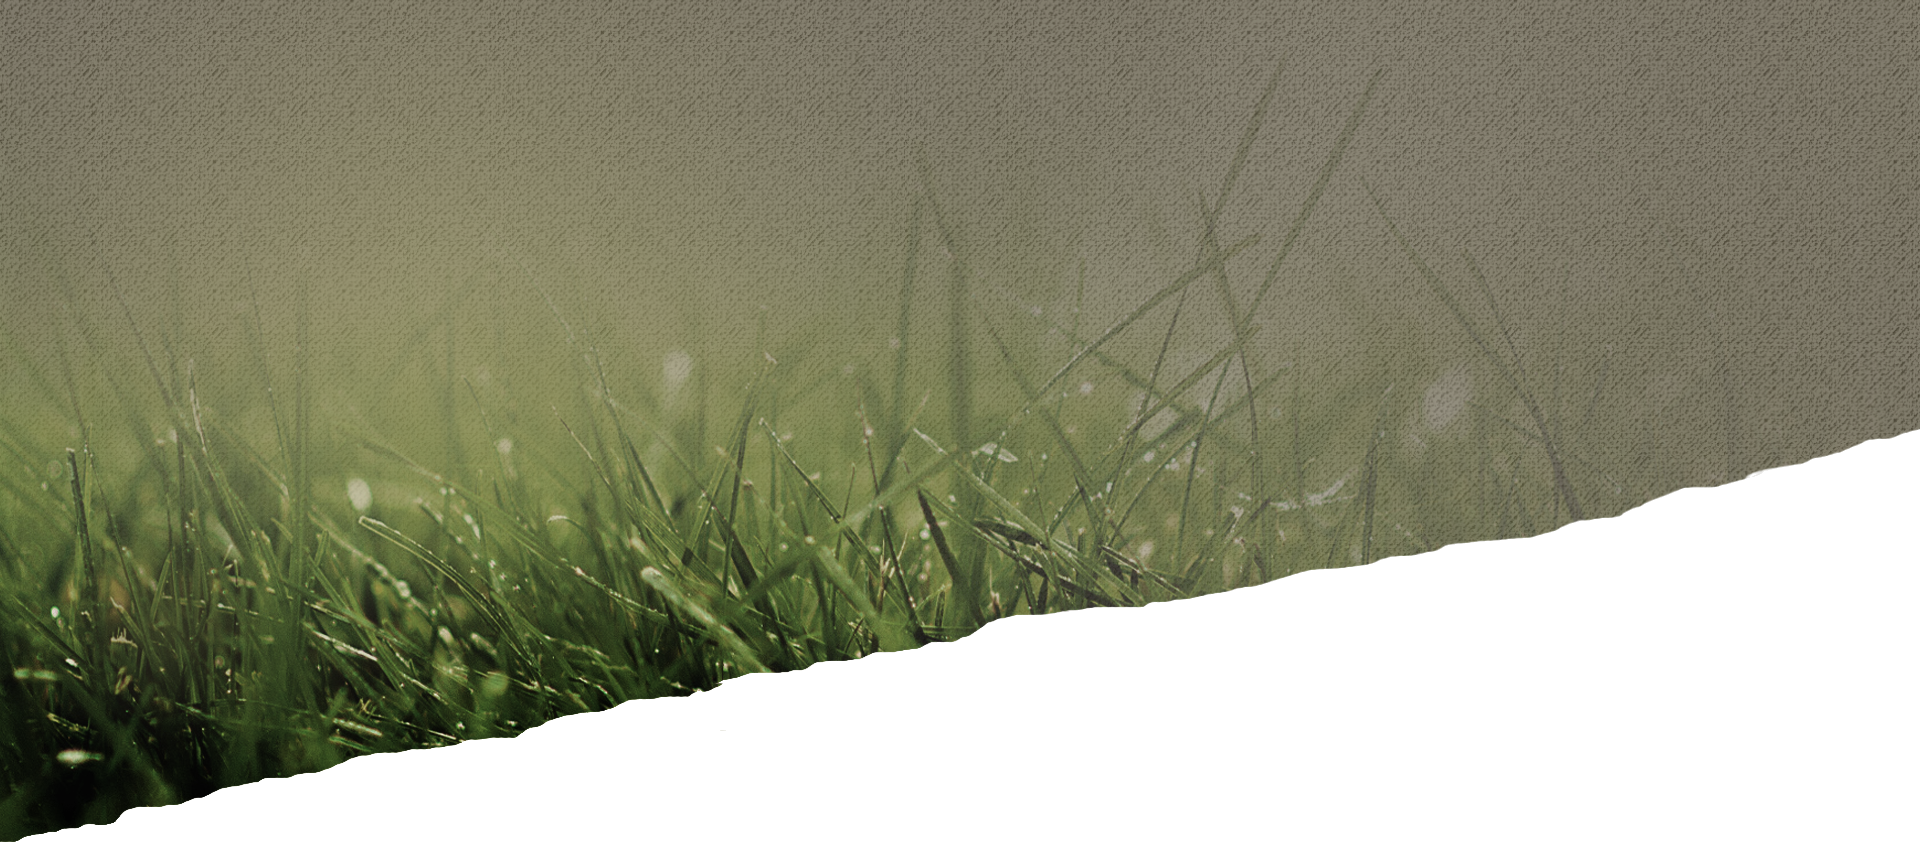
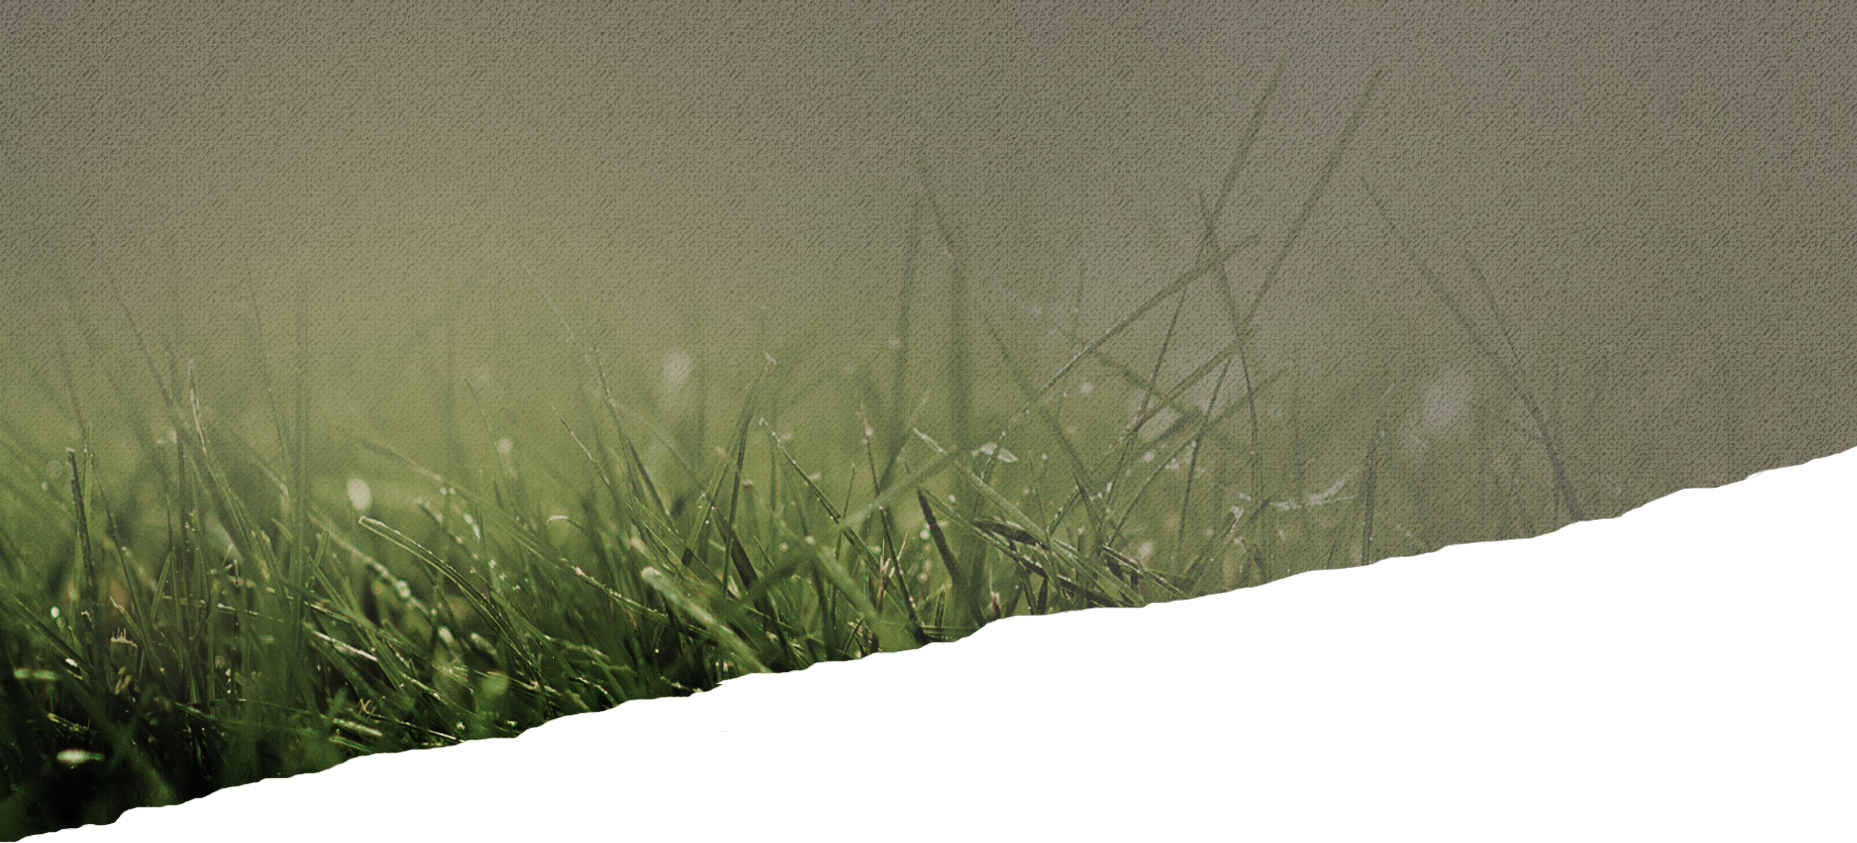
перед новой шапкой

diff --git a/src/template/search.html b/src/template/search.html
@@ -1,0 +1,61 @@
+<main class="content">
+                <h3>Результаты поиска</h3>
+                
+<p class="ajaxSearch_resultsInfos">4 найдено по запросу «<span class="ajaxSearch_highlight ajaxSearch_highlight1">конопли</span>». <span class="ajaxSearch_resultsDisplayed">Показано: 4.</span></p>
+  <div id="grpResult_site_wide" class="ajaxSearch_grpResult">
+
+<div class="ajaxSearch_grpResultName">
+<span class="ajaxSearch_grpResultsDisplayed">(Результаты 1 – 4 из 4)</span></div>
+
+
+  <span class="ajaxSearch_paging">
+    
+    
+  </span>
+
+
+
+<div class="ajaxSearch_result">
+  <a class="ajaxSearch_resultLink" href="/?searched=%D0%BA%D0%BE%D0%BD%D0%BE%D0%BF%D0%BB%D0%B8&amp;advsearch=oneword&amp;highlight=ajaxSearch_highlight+ajaxSearch_highlight1" title="">Лучшие сорта</a>
+
+
+  <div class="ajaxSearch_resultExtract"><p>...Совсем недавно купить семена <span class="ajaxSearch_highlight ajaxSearch_highlight1">конопли</span> было практически невозможно, а для того, чтобы найти образцы высокого качества приходилось отпра...</p></div>
+
+
+</div><div class="ajaxSearch_result">
+  <a class="ajaxSearch_resultLink" href="/verhnee-menyu/o-nas?searched=%D0%BA%D0%BE%D0%BD%D0%BE%D0%BF%D0%BB%D0%B8&amp;advsearch=oneword&amp;highlight=ajaxSearch_highlight+ajaxSearch_highlight1" title="">О нас</a>
+
+
+  <div class="ajaxSearch_resultExtract"><p>...
+Интернет магазин Bulkes был открыт в Москве для продажи семян <span class="ajaxSearch_highlight ajaxSearch_highlight1">конопли</span>. Для своих клиентов мы производим&nbsp;семена в лаборатории в Испании, используя только лучшие удобре...</p></div>
+
+
+</div><div class="ajaxSearch_result">
+  <a class="ajaxSearch_resultLink" href="/verhnee-menyu/blog/pervaya-statya?searched=%D0%BA%D0%BE%D0%BD%D0%BE%D0%BF%D0%BB%D0%B8&amp;advsearch=oneword&amp;highlight=ajaxSearch_highlight+ajaxSearch_highlight1" title="">БОНУСЫ В КАЖДОЙ УПАКОВКЕ!</a>
+
+
+  <div class="ajaxSearch_resultExtract"><p>...Добрый День, в нашем магазине продаются семена <span class="ajaxSearch_highlight ajaxSearch_highlight1">конопли</span> в оригинальной упаковке, каждая упаковка содержит дополнительные семена. 
+Автоцвещие Феминизрова...</p></div>
+
+
+</div><div class="ajaxSearch_result">
+  <a class="ajaxSearch_resultLink" href="/verhnee-menyu/optovym-pokupatelyam?searched=%D0%BA%D0%BE%D0%BD%D0%BE%D0%BF%D0%BB%D0%B8&amp;advsearch=oneword&amp;highlight=ajaxSearch_highlight+ajaxSearch_highlight1" title="">Оптовым покупателям</a>
+
+
+  <div class="ajaxSearch_resultExtract"><p>...легальные поставки. 
+При заказе от 30 тыс. рублей ,МАГАЗИНАМ ,ОПТОВЫМ ПОКУПАТЕЛЯМ ,Купив&nbsp;семена <span class="ajaxSearch_highlight ajaxSearch_highlight1">конопли</span> оптом, Вы снижаете стоимость каждого зернышка. Если вам не чуждо чувство запасливости, и вы уве...</p></div>
+
+
+</div>
+
+  <span class="ajaxSearch_paging">
+    
+    
+  </span>
+
+
+
+</div>
+
+
+            </main>

diff --git a/src/style/partials/_header.scss b/src/style/partials/_header.scss
@@ -5,8 +5,18 @@
 body
 {
 	color:#333;
+	/*
 	background:url(../img/foot_bg.png) left bottom repeat-x;
-	background-color:#fcfcfc;
+	*/
+	/* Permalink - use to edit and share this gradient: http://colorzilla.com/gradient-editor/#fcfcfc+0,96957d+100 */
+background: #fcfcfc; /* Old browsers */
+background: -moz-linear-gradient(top, #fcfcfc 60%, #96957d 100%); /* FF3.6-15 */
+background: -webkit-linear-gradient(top, #fcfcfc 60%,#96957d 100%); /* Chrome10-25,Safari5.1-6 */
+background: linear-gradient(to bottom, #fcfcfc 60%,#96957d 100%); /* W3C, IE10+, FF16+, Chrome26+, Opera12+, Safari7+ */
+filter: progid:DXImageTransform.Microsoft.gradient( startColorstr='#fcfcfc', endColorstr='#96957d',GradientType=0 ); /* IE6-9 */
+
+
+
 	font-family: 'MyriadProRegular';
 }
 .clear{
@@ -191,7 +201,11 @@ header {
 			height:37px;
 			background: #fff;
 			margin-top: 10px;
-				
+				fieldset{
+					border:none;
+					margin: 0;
+					padding:0;
+				}
 			::-webkit-input-placeholder{
 				color: #333;
 				text-transform: uppercase;
@@ -267,12 +281,6 @@ header {
 					}
 			}
 		}	
-
-
-
-
-
-
 	}
 }
 

diff --git a/src/style/partials/_content.scss b/src/style/partials/_content.scss
@@ -206,6 +206,45 @@ Content
 .obout{
 	margin-top:30px;
 }
+.ajaxSearch_resultsInfos{
+	margin-top:35px;
+    color: #313131;
+    font-size: 18px;
+    font-weight: 400;
+    line-height: 30px;
+    margin-bottom: 35px
+}
+#grpResult_site_wide{
+	color: #313131;
+    font-size: 18px;
+    font-weight: 400;
+    line-height: 30px;
+    margin-bottom: 35px;
+    .ajaxSearch_grpResultName{
+    	margin-bottom: 25px;
+    }
+}
+.ajaxSearch_result{
+	.ajaxSearch_resultLink{
+	text-decoration:none;
+	color: #322708;
+    font-size: 18px;
+    font-weight: 400;
+    line-height: 30px;
+    margin: 15px 0;
+    text-transform: uppercase;
+	}
+	.ajaxSearch_resultExtract{
+color: #313131;
+    font-size: 18px;
+    font-weight: 400;
+    line-height: 20px;
+    margin-bottom: 35px
+	}
+}
+	
+
+
 }
 
 /*************************************

diff --git a/src/search.html b/src/search.html
@@ -4,7 +4,7 @@
     <title>Bulkes</title>
         <meta name="description" content="">
         <meta name="keywords" content="Bulkes">
-        <meta name="viewport" content="width=1135">
+        <meta name="viewport" content="width=device-width, initial-scale=1.0">
     	<link rel="stylesheet" href="../css/style.css">
         <script src="http://ajax.googleapis.com/ajax/libs/jquery/2.2.4/jquery.min.js"></script>
     	<script type="text/javascript" src="../js/script.js"></script>
@@ -12,7 +12,7 @@
 <body class="no-touch">
 
     //= template/header.html
-    //= template/content.html
+    //= template/search.html
     //= template/footer.html
 </body>
 </html>
